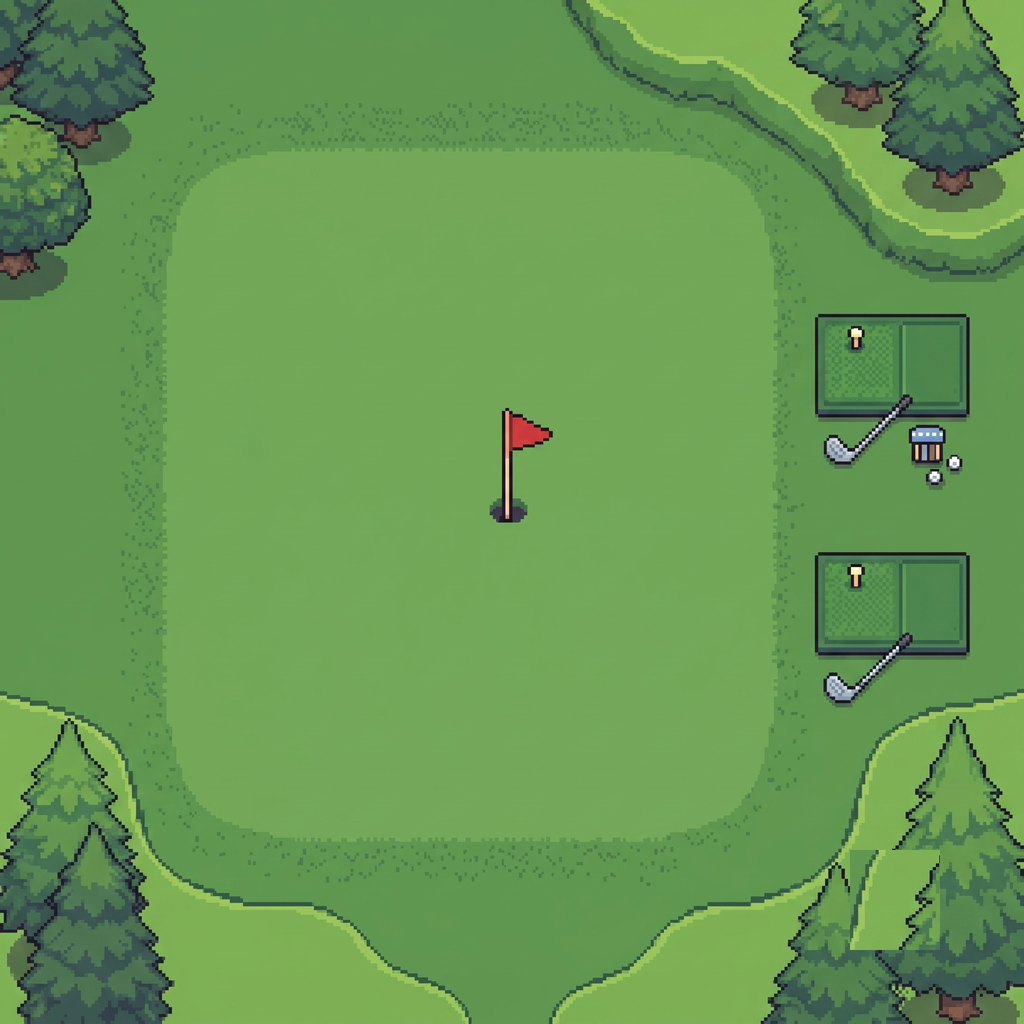
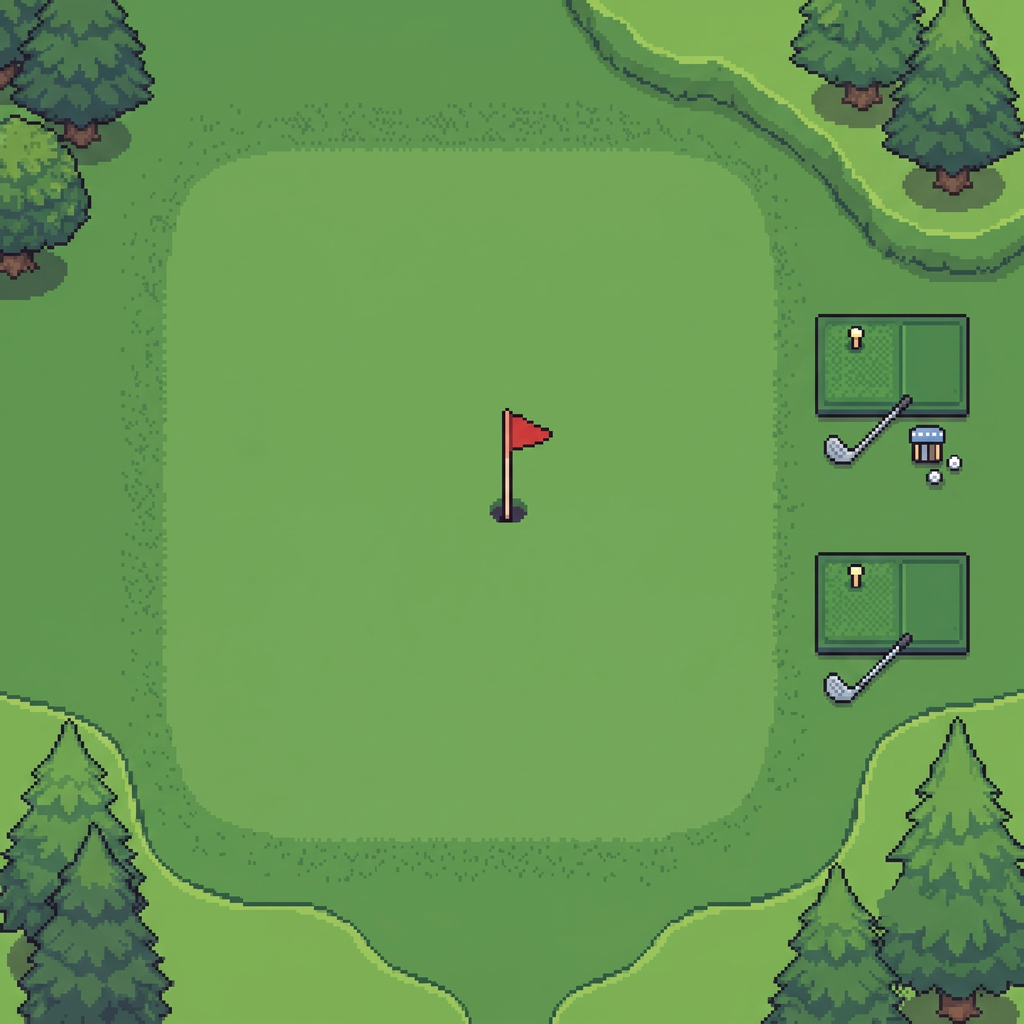
fix(field): 헬스장·테니스·골프 필드 제미나이 로고(✦) 제대로 제거 - VER2 원본에서 인페인팅/링채움 후 재등록 (sw v166)

Changed region(s): [[0.8125, 0.8125, 0.9375, 0.9375]]

diff --git a/index.html b/index.html
@@ -2103,17 +2103,17 @@ window._FIELDS = {
     ],
     start: { tc: 7, tr: 9 }
   },
-  gym: { name: '헬스장', src: "char/fields/field_gym.png?v=2", grid: 16, start: { tc: 7, tr: 8 }, map: [
+  gym: { name: '헬스장', src: "char/fields/field_gym.png?v=3", grid: 16, start: { tc: 7, tr: 8 }, map: [
     "################","################","################","#....###########",
     "#....####.....##","###...........##","###............#","###............#",
     "###............#","###............#","###...........##","###...........##",
     "###...........##","###...........##","###...........##","################"] },
-  tennis: { name: '테니스', src: "char/fields/field_tennis.png?v=2", grid: 16, start: { tc: 7, tr: 11 }, map: [
+  tennis: { name: '테니스', src: "char/fields/field_tennis.png?v=3", grid: 16, start: { tc: 7, tr: 11 }, map: [
     "################","################","################","#..............#",
     "#..............#","#..............#","###............#","###............#",
     "##############.#","###............#","###............#","###............#",
     "###............#","###............#","#..............#","################"] },
-  golf: { name: '골프', src: "char/fields/field_golf.png?v=2", grid: 16, start: { tc: 6, tr: 9 }, map: [
+  golf: { name: '골프', src: "char/fields/field_golf.png?v=3", grid: 16, start: { tc: 6, tr: 9 }, map: [
     "################","###.........####","###.........####","###.........####",
     "###............#","#............###","#............###","#.......#....###",
     "#.......#....###","#............###","#............###","###..........###",

diff --git a/sw.js b/sw.js
@@ -1,7 +1,7 @@
 // 배포마다 이 버전을 올려야 자동 새버전 적용(새로고침)이 동작함
-const CACHE_NAME = 'murpy-v165';
-const STATIC_CACHE = 'murpy-static-v165';
-const CDN_CACHE = 'murpy-cdn-v165';
+const CACHE_NAME = 'murpy-v166';
+const STATIC_CACHE = 'murpy-static-v166';
+const CDN_CACHE = 'murpy-cdn-v166';
 // 이미지 캐시는 버전 안 붙임 → 코드/HTML 배포해도 유지(URL이 곧 버전)
 const IMG_CACHE = 'murpy-img';
 